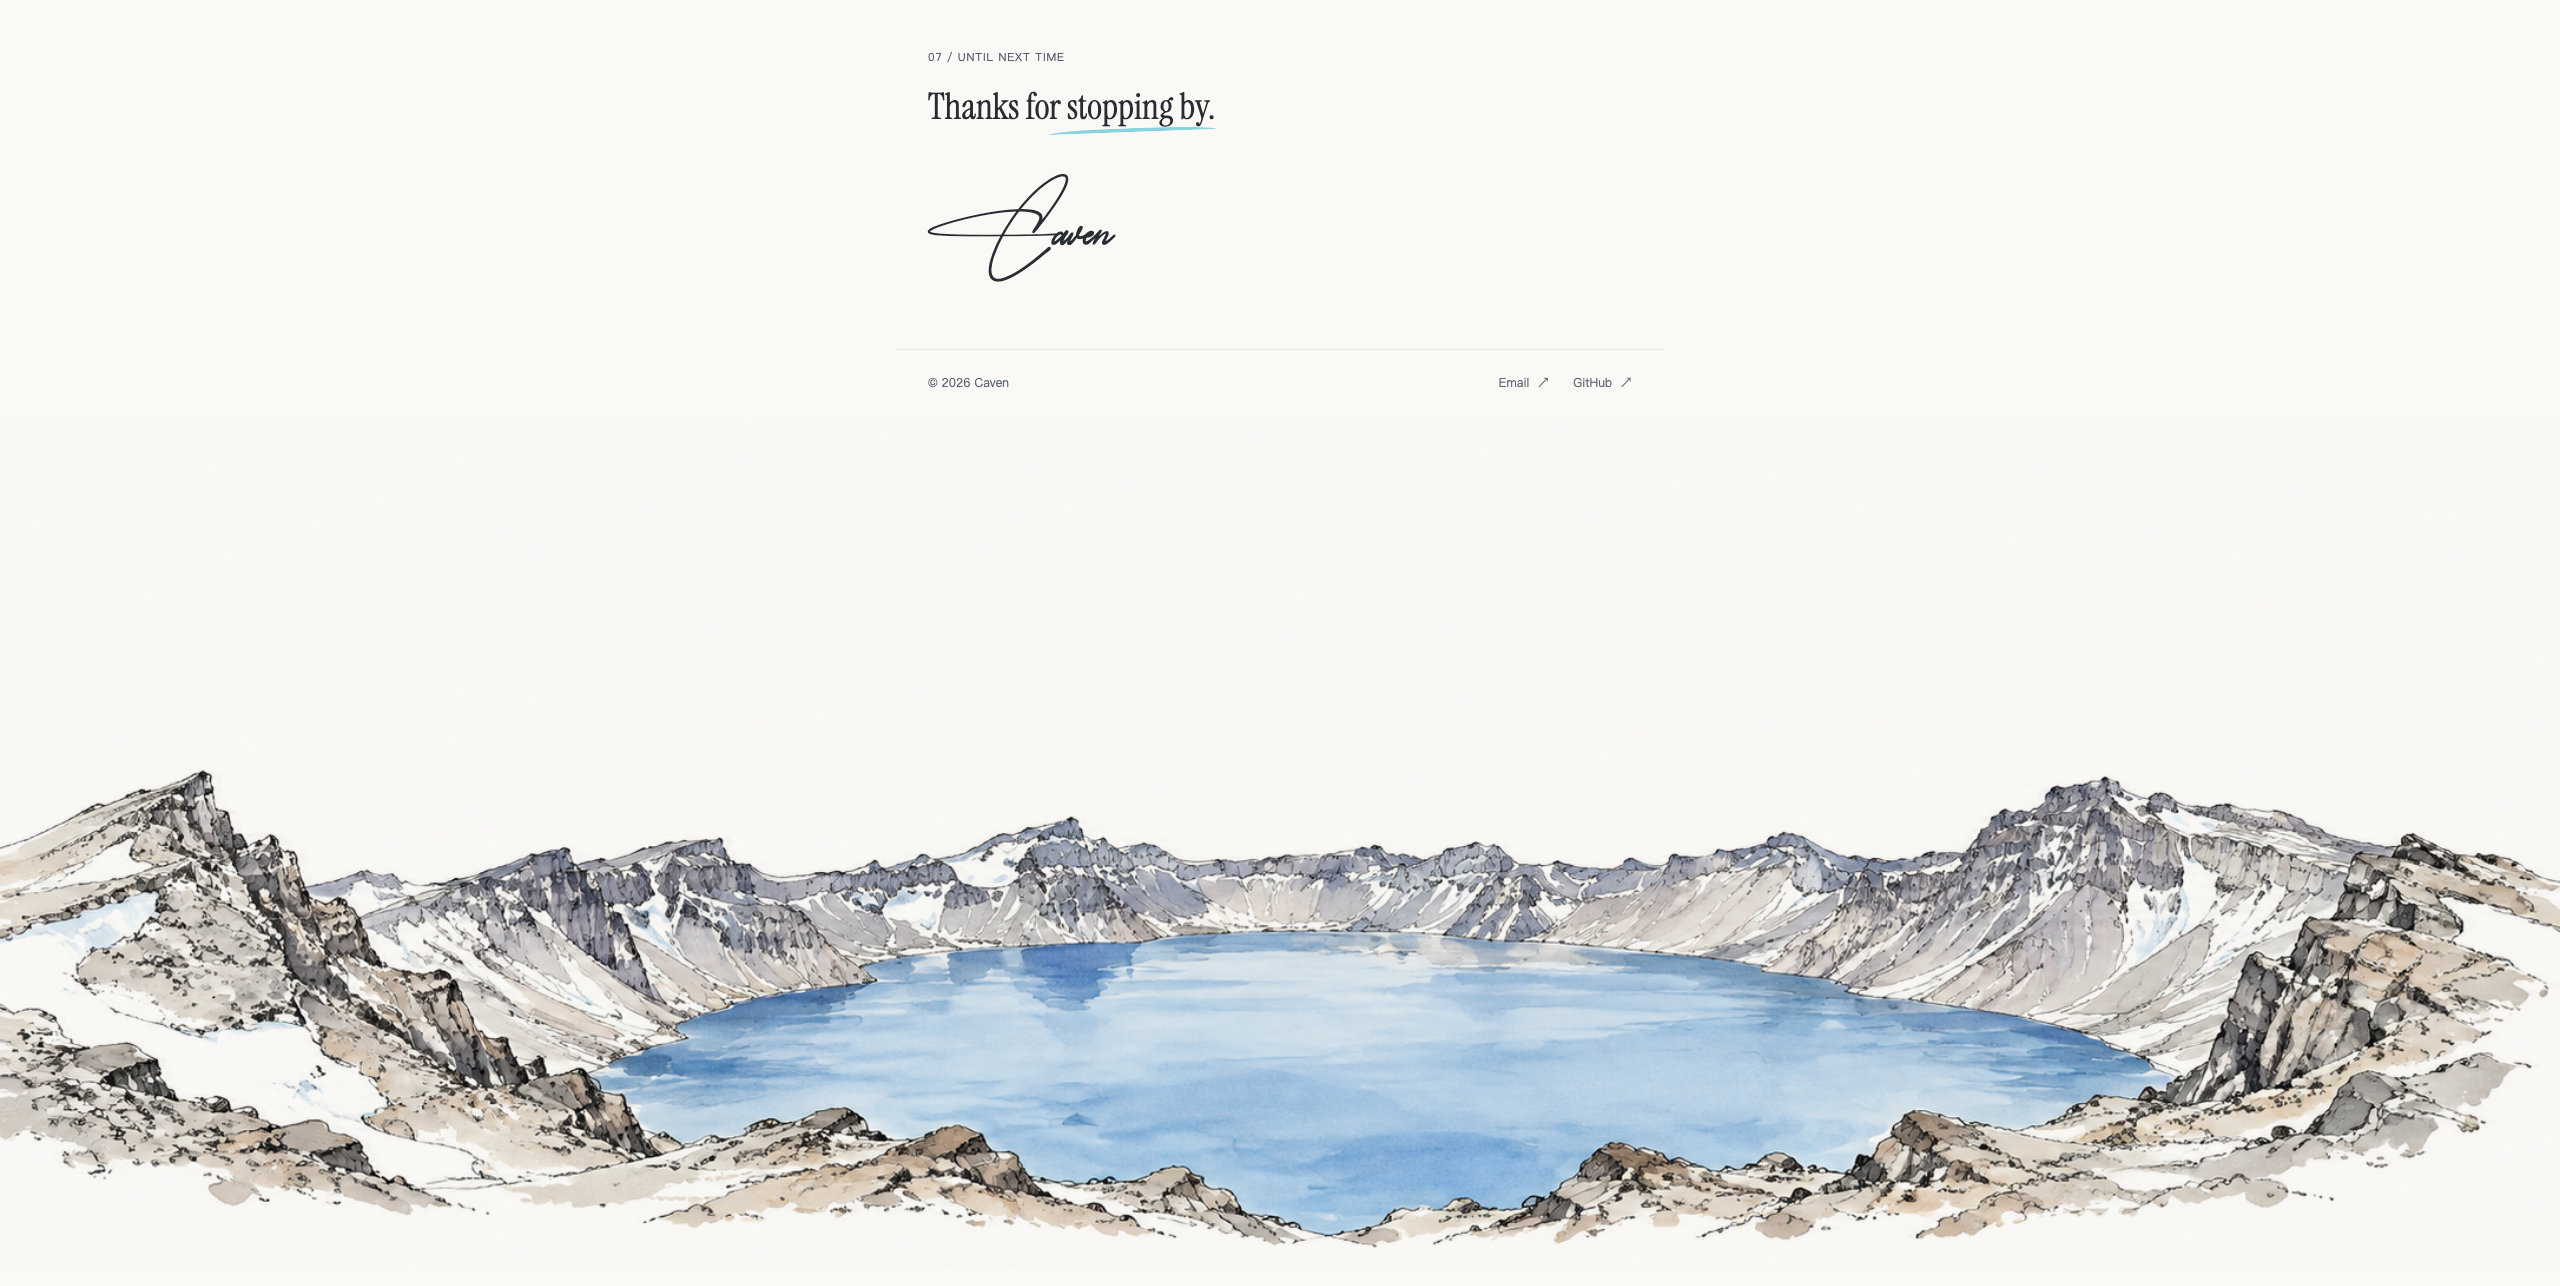
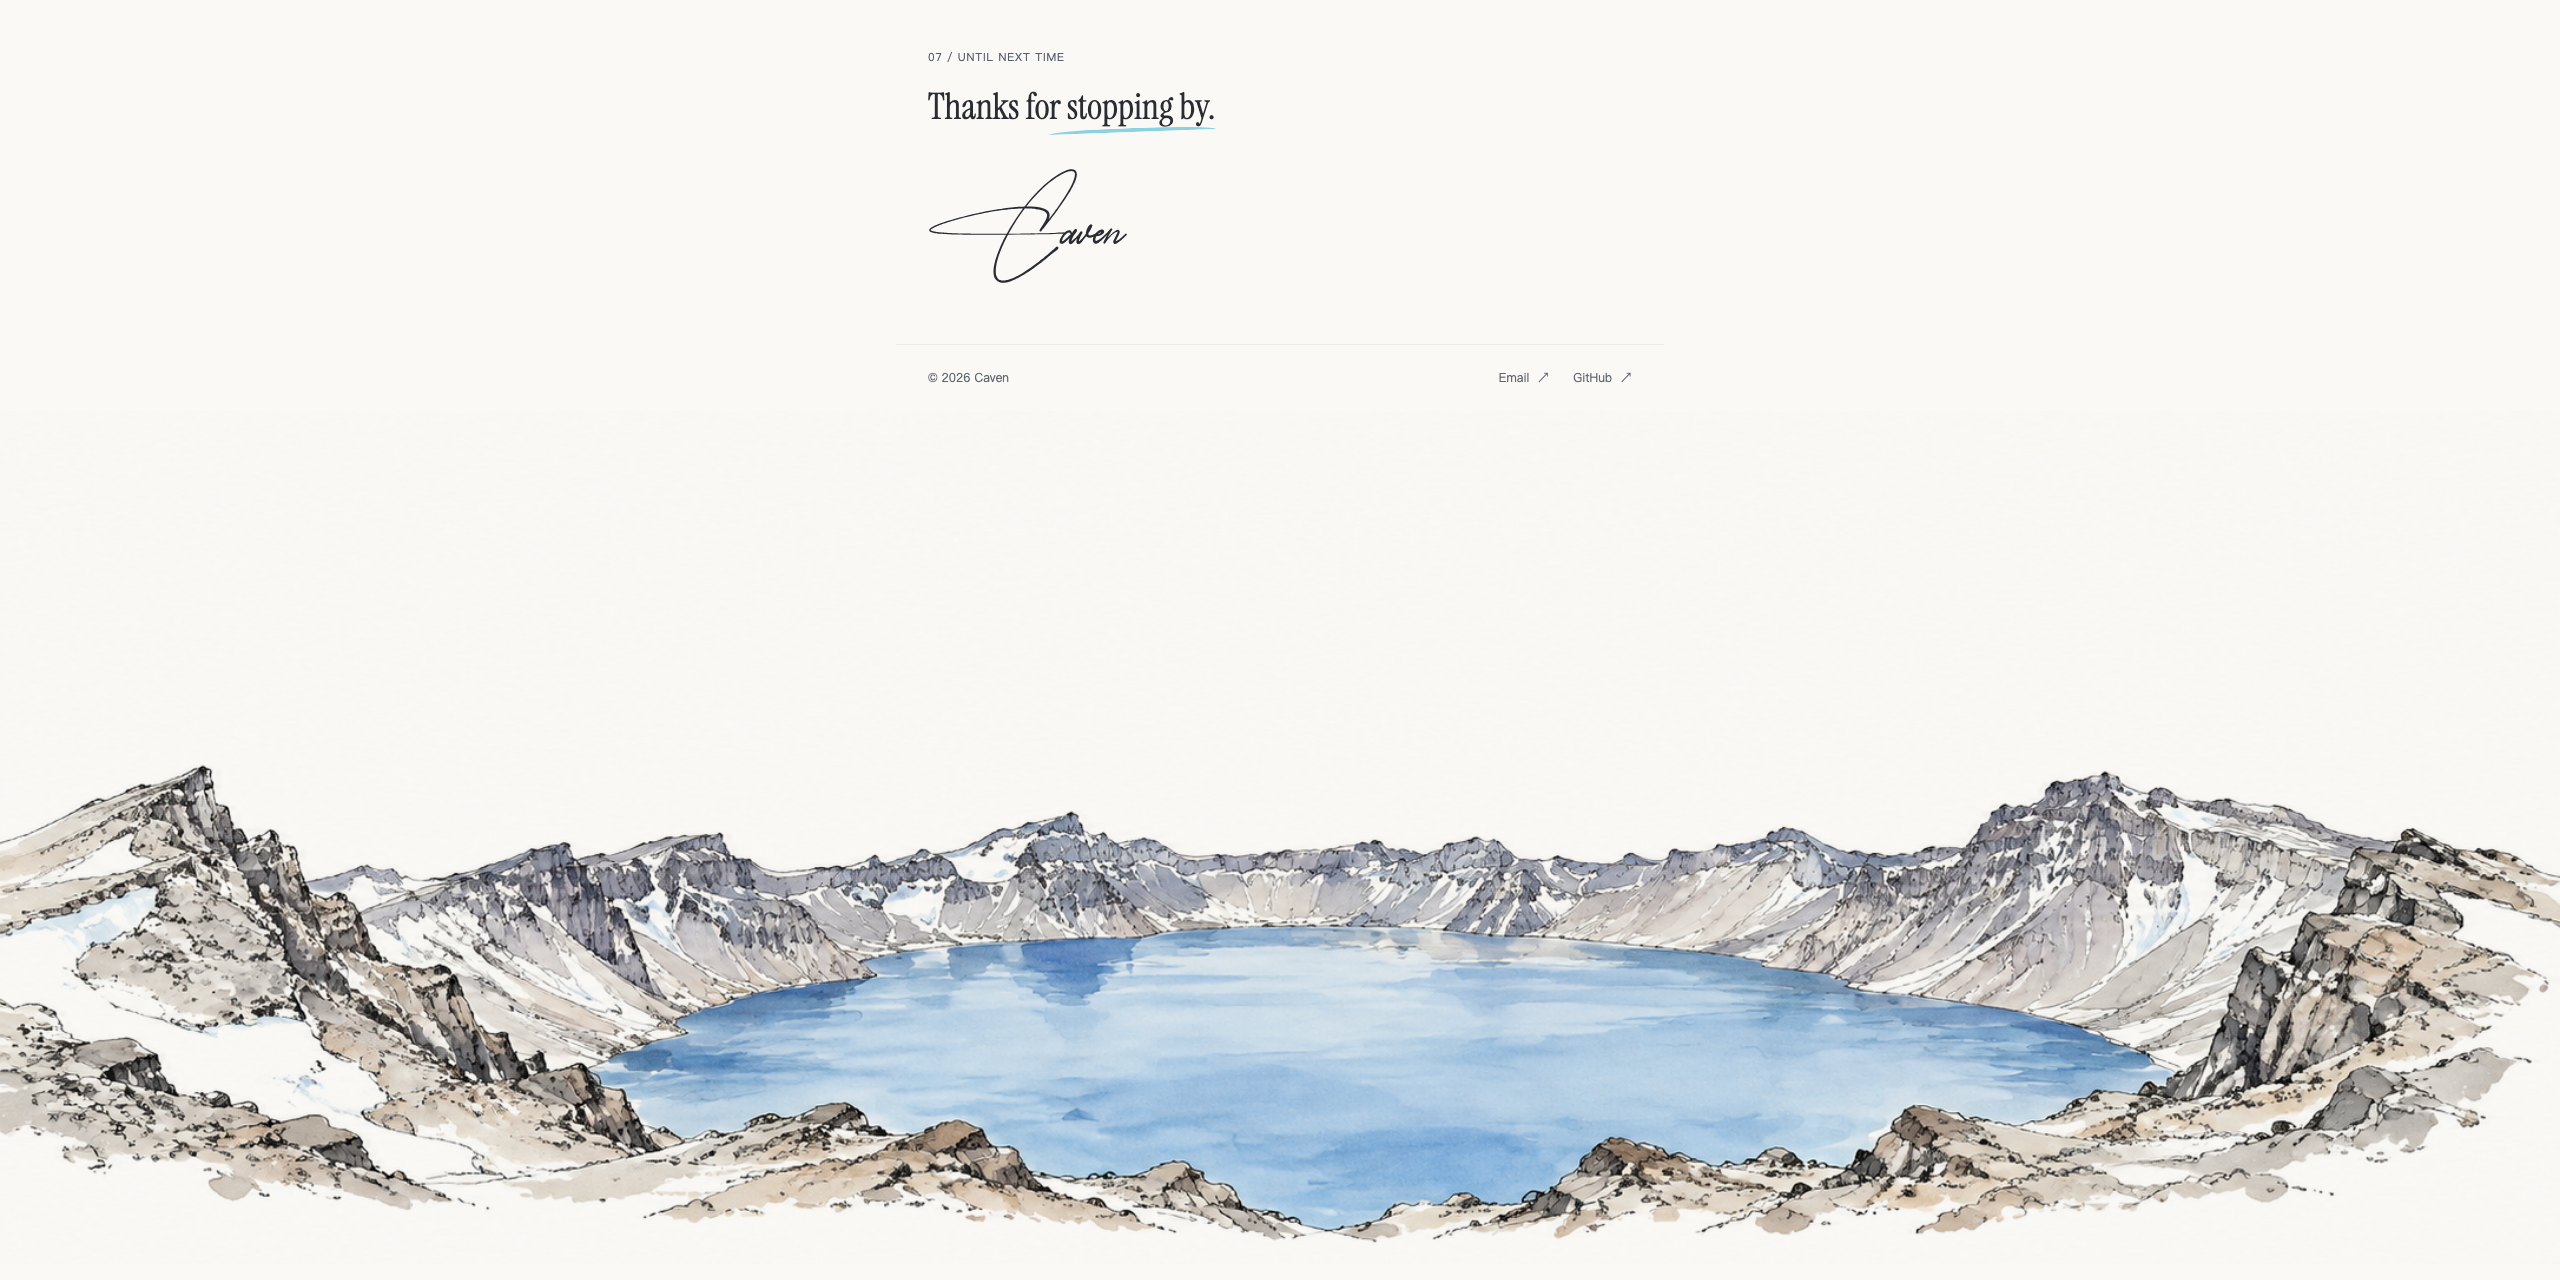
feat: replace signature font with outlined SVG

diff --git a/src/styles/global.css b/src/styles/global.css
@@ -1,13 +1,5 @@
 @import "tailwindcss" source("../");
 
-@font-face {
-  font-family: "Caven Signature";
-  src: local("Bastliga One"), local("BastligaOne");
-  font-weight: 400;
-  font-style: normal;
-  font-display: swap;
-}
-
 :root {
   color-scheme: light;
   font-family: "Geist", "PingFang SC", "Microsoft YaHei", sans-serif;
@@ -347,11 +339,12 @@ h3 {
   font-size: clamp(28px, 4vw, 36px);
 }
 .signature {
-  width: fit-content;
-  margin-top: 20px;
-  font-family: "Caven Signature", "Snell Roundhand", "Segoe Script", cursive;
-  font-size: clamp(80px, 12vw, 112px);
-  line-height: 1.4;
+  display: block;
+  width: clamp(144px, 21vw, 200px);
+  max-width: 100%;
+  height: auto;
+  margin-top: 32px;
+  margin-bottom: 24px;
 }
 .footer-meta {
   border-top: 1px solid #292d3214;

diff --git a/docs/layout-review.md b/docs/layout-review.md
@@ -57,7 +57,7 @@ Tianchi illustration fills the page width without a desktop cap, scales proporti
 and blends its white background into the warm page surface. The PNG is the original
 AI-generated candidate from this conversation, copied to `public/images/` and
 served locally. No third-party illustration was copied. Signature typography is
-the user-selected Bastliga One, resolved from an installed local font with system-script fallbacks. The font file is not bundled or redistributed. The [font publisher’s terms](https://www.1001fonts.com/bastliga-one-font.html) allow personal use only and require a license for promotional/commercial use; production embedding and its license remain to be confirmed. Devices without the installed font display the fallback.
+the user-selected Bastliga One, converted to SVG outlines in `public/images/caven-signature.svg`. The user confirmed permission for this use before conversion. The SVG contains paths rather than live text; it renders consistently without an installed or bundled font. The original font file is not distributed.
 
 [Desktop footer](layout-evidence/footer-desktop.png) ·
 [Mobile footer](layout-evidence/footer-mobile.png) ·
